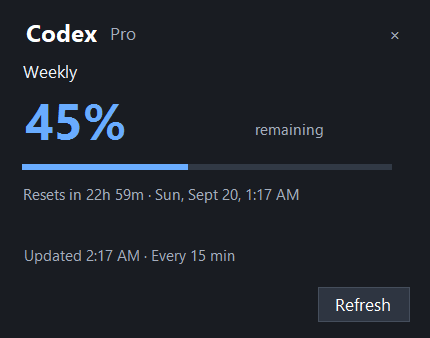
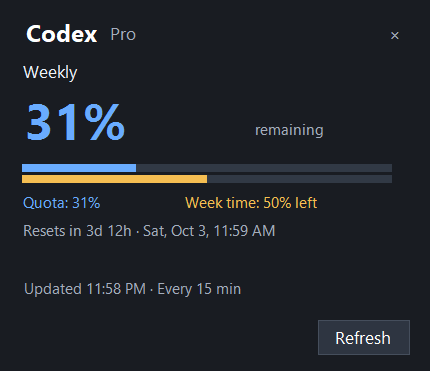
Show weekly time remaining alongside quota progress

diff --git a/UsagePopup.cs b/UsagePopup.cs
@@ -9,6 +9,7 @@ internal sealed class UsagePopup : Form
     private readonly Label status;
     private readonly Button refresh;
     private readonly ToolTip tips = new();
+    private readonly System.Windows.Forms.Timer repaintTimer = new() { Interval = 60_000 };
     private readonly List<Font> ownedFonts = [];
     public event EventHandler? RefreshRequested;
     [System.ComponentModel.DesignerSerializationVisibility(System.ComponentModel.DesignerSerializationVisibility.Hidden)]
@@ -61,6 +62,8 @@ internal sealed class UsagePopup : Form
         shell.Controls.Add(actions, 0, 3);
         Controls.Add(shell);
         Deactivate += (_, _) => { if (!KeepOpen) Hide(); };
+        repaintTimer.Tick += (_, _) => content.Invalidate(true);
+        VisibleChanged += (_, _) => repaintTimer.Enabled = Visible;
     }
 
     public void UpdateUsage(UsageSnapshot? snapshot, string? error, bool loading, bool stale)
@@ -71,12 +74,14 @@ internal sealed class UsagePopup : Form
         plan.Text = snapshot?.Plan is { Length: > 0 } value ? char.ToUpperInvariant(value[0]) + value[1..] : "Usage";
         var scale = DeviceDpi / 96f;
         var multipleBuckets = snapshot?.Windows.Select(w => w.BucketId).Distinct().Count() > 1;
-        var needsScroll = snapshot?.Windows.Count > 3;
+        var contentHeight = snapshot is { Windows.Count: > 0 }
+            ? snapshot.Windows.Sum(window => window.DurationMinutes == 10080 ? 157 : 131) : 131;
+        var needsScroll = 140 + contentHeight > 580;
         if (snapshot is { Windows.Count: > 0 })
         {
             foreach (var window in snapshot.Windows)
             {
-                var card = new UsageCard(window, multipleBuckets, stale) { Width = (int)(300 * scale) - (needsScroll ? SystemInformation.VerticalScrollBarWidth : 0), Height = (int)(124 * scale),
+                var card = new UsageCard(window, multipleBuckets, stale) { Width = (int)(300 * scale) - (needsScroll ? SystemInformation.VerticalScrollBarWidth : 0), Height = (int)((window.DurationMinutes == 10080 ? 150 : 124) * scale),
                     Margin = new Padding(0, 0, 0, (int)(7 * scale)) };
                 content.Controls.Add(card);
             }
@@ -95,8 +100,7 @@ internal sealed class UsagePopup : Form
             : $"Updated {time} · Every 15 min";
         tips.SetToolTip(status, status.Text);
         refresh.Enabled = !loading;
-        var count = Math.Max(1, snapshot?.Windows.Count ?? 0);
-        ClientSize = new Size((int)(344 * scale), (int)(Math.Min(580, 140 + count * 131) * scale));
+        ClientSize = new Size((int)(344 * scale), (int)(Math.Min(580, 140 + contentHeight) * scale));
         ResumeLayout(true);
         if (Visible) PositionNearTray();
     }
@@ -142,6 +146,7 @@ internal sealed class UsagePopup : Form
     {
         base.Dispose(disposing);
         if (!disposing) return;
+        repaintTimer.Dispose();
         tips.Dispose();
         foreach (var font in ownedFonts) font.Dispose();
     }
@@ -155,13 +160,18 @@ internal sealed class UsageCard : Control
     private readonly UsageWindow window;
     private readonly bool multipleBuckets;
     private readonly bool stale;
+    private static readonly Color WeekTimerColor = Color.FromArgb(245, 190, 82);
     public UsageCard(UsageWindow value, bool multiple, bool isStale)
     {
         window = value; multipleBuckets = multiple; stale = isStale;
         DoubleBuffered = true;
         AccessibleRole = AccessibleRole.StaticText;
-        AccessibleName = $"{window.BucketName}, {window.WindowName}, {window.PercentText} remaining. {window.ResetText(DateTimeOffset.UtcNow)}";
+        UpdateAccessibleName(DateTimeOffset.UtcNow);
     }
+
+    private void UpdateAccessibleName(DateTimeOffset now) => AccessibleName =
+        $"{window.BucketName}, {window.WindowName}, {window.PercentText} quota remaining. "
+        + (window.DurationMinutes == 10080 ? window.WeekTimeText(now) + ". " : "") + window.ResetText(now);
 
     protected override void OnPaint(PaintEventArgs e)
     {
@@ -170,6 +180,8 @@ internal sealed class UsageCard : Control
         graphics.ScaleTransform(DeviceDpi / 96f, DeviceDpi / 96f);
         var logicalWidth = Width / (DeviceDpi / 96f);
         graphics.TextRenderingHint = System.Drawing.Text.TextRenderingHint.ClearTypeGridFit;
+        var now = DateTimeOffset.UtcNow;
+        UpdateAccessibleName(now);
         var color = stale ? Color.FromArgb(164, 173, 188) : TrayIcon.ColorFor(window.Remaining, window.DurationMinutes);
         using var headingFont = new Font("Segoe UI", 13.33f, FontStyle.Regular, GraphicsUnit.Pixel);
         using var numberFont = new Font("Segoe UI", window.Remaining is null ? 28 : 40, FontStyle.Bold, GraphicsUnit.Pixel);
@@ -177,15 +189,29 @@ internal sealed class UsageCard : Control
         using var text = new SolidBrush(Color.FromArgb(235, 240, 248));
         using var muted = new SolidBrush(Color.FromArgb(164, 173, 188));
         using var accent = new SolidBrush(color);
+        using var weekTimer = new SolidBrush(stale ? Color.FromArgb(196, 181, 143) : WeekTimerColor);
         using var track = new SolidBrush(Color.FromArgb(49, 57, 69));
         using var ellipsis = new StringFormat { Trimming = StringTrimming.EllipsisCharacter, FormatFlags = StringFormatFlags.NoWrap };
         var heading = multipleBuckets ? $"{window.BucketName} · {window.WindowName}" : window.WindowName;
         graphics.DrawString(heading, headingFont, text, new RectangleF(0, 0, logicalWidth - 2, 23), ellipsis);
         graphics.DrawString(window.PercentText, numberFont, accent, new RectangleF(-3, 21, 220, 58));
         if (window.Remaining is not null) graphics.DrawString(stale ? "last known" : "remaining", detailFont, muted, logicalWidth - 114, 47);
-        graphics.FillRectangle(track, 1, 83, logicalWidth - 4, 5);
-        if (window.Remaining is { } remaining) graphics.FillRectangle(accent, 1, 83, (float)((logicalWidth - 4) * remaining / 100), 5);
-        graphics.DrawString(window.ResetText(DateTimeOffset.UtcNow), detailFont, muted, new RectangleF(0, 99, logicalWidth, 24), ellipsis);
+        var weekly = window.DurationMinutes == 10080;
+        var laneHeight = weekly ? 6 : 5;
+        graphics.FillRectangle(track, 1, 83, logicalWidth - 4, laneHeight);
+        if (window.Remaining is { } remaining) graphics.FillRectangle(accent, 1, 83, (float)((logicalWidth - 4) * remaining / 100), laneHeight);
+        if (weekly)
+        {
+            // Separate lanes keep both percentages visible, including equal values.
+            graphics.FillRectangle(track, 1, 92, logicalWidth - 4, laneHeight);
+            var timeRemaining = window.TimeRemainingPercent(now);
+            if (timeRemaining is { } time) graphics.FillRectangle(weekTimer, 1, 92, (float)((logicalWidth - 4) * time / 100), laneHeight);
+            graphics.DrawString(window.Remaining is null ? "Quota unavailable" : $"Quota: {window.PercentText}", detailFont, accent,
+                new RectangleF(0, 106, 126, 20), ellipsis);
+            var timerText = timeRemaining is { } percent ? $"Week time: {Math.Floor(percent):0}% left" : "Week time unavailable";
+            graphics.DrawString(timerText, detailFont, weekTimer, new RectangleF(130, 106, logicalWidth - 130, 20), ellipsis);
+        }
+        graphics.DrawString(window.ResetText(now), detailFont, muted, new RectangleF(0, weekly ? 128 : 99, logicalWidth, 24), ellipsis);
     }
 }
 

diff --git a/tests/Program.cs b/tests/Program.cs
@@ -18,6 +18,12 @@ internal static class Program
             foreach (var session in collectedCosts.RecentSessions) Console.WriteLine($"{session.DisplayName}: ${session.CostUSD:F2}");
             return 0;
         }
+        CheckWeekTime();
+        if (args.Contains("--week-time-check"))
+        {
+            Console.WriteLine($"PASS: {checks} focused weekly time checks");
+            return 0;
+        }
         var weekly = Parse("""{"rateLimits":{"primary":{"usedPercent":55,"windowDurationMins":10080,"resetsAt":1789852721},"secondary":null,"planType":"pro"}}""");
         Check(weekly.Windows.Count == 1 && weekly.Windows[0].WindowName == "Weekly" && weekly.Windows[0].Remaining == 45,
             "Weekly-only Pro account does not invent a five-hour window");
@@ -110,6 +116,40 @@ internal static class Program
     {
         using var document = JsonDocument.Parse(json);
         return UsageSnapshot.Parse(document.RootElement, Now);
+    }
+
+    private static void CheckWeekTime()
+    {
+        var halfWeek = new UsageWindow("codex", "Codex", "primary", 69, 10080, Now.AddDays(3.5));
+        Check(halfWeek.TimeRemainingPercent(Now) == 50 && halfWeek.WeekTimeText(Now) == "50% of week remaining",
+            "Weekly time percentage uses the reset time and duration");
+        var fractionalWeek = halfWeek with { ResetsAt = Now.AddDays(3.5).AddMinutes(1) };
+        Check(fractionalWeek.WeekTimeText(Now) == "50% of week remaining",
+            "Weekly time display conservatively rounds down fractional percentages");
+        var fullWeek = halfWeek with { ResetsAt = Now.AddDays(7) };
+        var overfullWeek = halfWeek with { ResetsAt = Now.AddDays(8) };
+        Check(fullWeek.TimeRemainingPercent(Now) == 100 && overfullWeek.TimeRemainingPercent(Now) == 100
+            && overfullWeek.WeekTimeText(Now) == "100% of week remaining",
+            "Full and overfull weekly reset times stay at 100 percent");
+        var pastReset = halfWeek with { ResetsAt = Now.AddMinutes(-1) };
+        Check(pastReset.TimeRemainingPercent(Now) == 0 && pastReset.WeekTimeText(Now) == "0% of week remaining"
+            && pastReset.Remaining == 31 && pastReset.PercentText == "31%",
+            "An expired timer reaches zero without changing remaining quota");
+        var exactReset = halfWeek with { ResetsAt = Now };
+        Check(exactReset.TimeRemainingPercent(Now) == 0,
+            "The timer reaches zero at the exact reset timestamp");
+        foreach (var (window, label) in new[]
+        {
+            (halfWeek with { DurationMinutes = null }, "Missing duration"),
+            (halfWeek with { DurationMinutes = 0 }, "Zero duration"),
+            (halfWeek with { DurationMinutes = -1 }, "Negative duration"),
+            (halfWeek with { ResetsAt = null }, "Missing reset")
+        })
+            Check(window.TimeRemainingPercent(Now) is null && window.WeekTimeText(Now) == "Week time unavailable",
+                label + " keeps weekly time unavailable");
+        var shortWindow = halfWeek with { DurationMinutes = 300, ResetsAt = Now.AddMinutes(150) };
+        Check(shortWindow.TimeRemainingPercent(Now) == 50 && shortWindow.WeekTimeText(Now) == "Week time unavailable",
+            "Generic timer math supports other windows without labelling them as weeks");
     }
 
     private static CostHistory ParseCosts(string json)

diff --git a/Preview.cs b/Preview.cs
@@ -11,6 +11,10 @@ internal static class Preview
         var samples = new Dictionary<string, UsageSnapshot>
         {
             ["weekly"] = new(now, "pro", [new("codex", "Codex", "primary", 55, 10080, now.AddHours(23))]),
+            ["weekly-time-greater"] = new(now, "pro", [new("codex", "Codex", "primary", 69, 10080, now.AddHours(84).AddSeconds(30))]),
+            ["weekly-quota-greater"] = new(now, "pro", [new("codex", "Codex", "primary", 20, 10080, now.AddHours(42).AddSeconds(30))]),
+            ["weekly-equal"] = new(now, "pro", [new("codex", "Codex", "primary", 50, 10080, now.AddHours(84).AddSeconds(30))]),
+            ["weekly-time-unavailable"] = new(now, "pro", [new("codex", "Codex", "primary", 69, 10080, null)]),
             ["two-windows"] = new(now, "plus", [new("codex", "Codex", "primary", 27, 300, now.AddHours(2)), new("codex", "Codex", "secondary", 81, 10080, now.AddDays(3))]),
             ["unavailable"] = new(now, null, [new("codex", "Codex", "primary", null, null, null)])
         };

diff --git a/Usage.cs b/Usage.cs
@@ -7,6 +7,16 @@ public sealed record UsageWindow(string BucketId, string BucketName, string Slot
 {
     public double? Remaining => UsedPercent is { } used ? Math.Clamp(100 - used, 0, 100) : null;
     public string PercentText => Remaining is { } remaining ? $"{Math.Floor(remaining):0}%" : "Unavailable";
+    public double? TimeRemainingPercent(DateTimeOffset now) =>
+        ResetsAt is { } reset && DurationMinutes is > 0
+            ? Math.Clamp((reset - now).TotalMinutes / DurationMinutes.Value * 100, 0, 100)
+            : null;
+
+    public string WeekTimeText(DateTimeOffset now) =>
+        DurationMinutes == 10080 && TimeRemainingPercent(now) is { } remaining
+            ? $"{Math.Floor(remaining):0}% of week remaining"
+            : "Week time unavailable";
+
     public string WindowName => DurationMinutes switch
     {
         300 => "5-hour", 10080 => "Weekly", 1440 => "Daily",

diff --git a/README.md b/README.md
@@ -25,6 +25,7 @@ Windows may initially put the icon under the tray's **^** overflow. Drag it besi
 
 - **Tray number:** lowest percentage remaining across reported windows.
 - **Left-click:** all percentages, reset countdowns, local reset dates, and the last successful update time.
+- **Weekly progress bar:** upper lane shows quota remaining; the gold lower lane shows the percentage of the week remaining until reset. Both lanes and their text labels stay visible regardless of which is higher. Time is calculated from the reported reset and window duration, and updates every minute while the panel is open.
 - **Right-click:** Show limits, Refresh now, Show cost history, Choose cost-history file, Start with Windows, or Quit.
 - **Refresh:** at launch, every 15 minutes, and after resuming Windows when an update is due.
 - **Amber `!`:** a check failed or data is stale. Retained figures are marked as last known.
